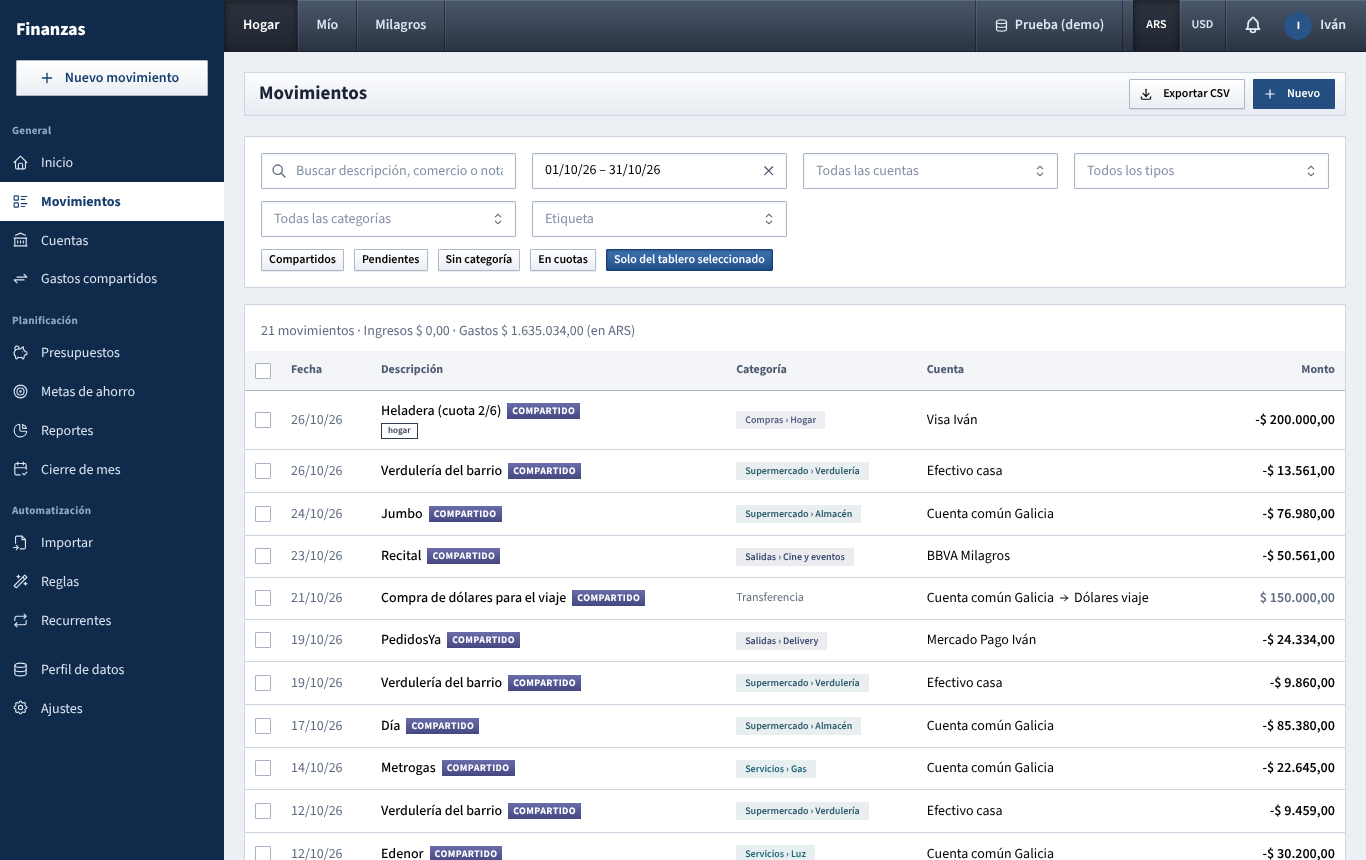
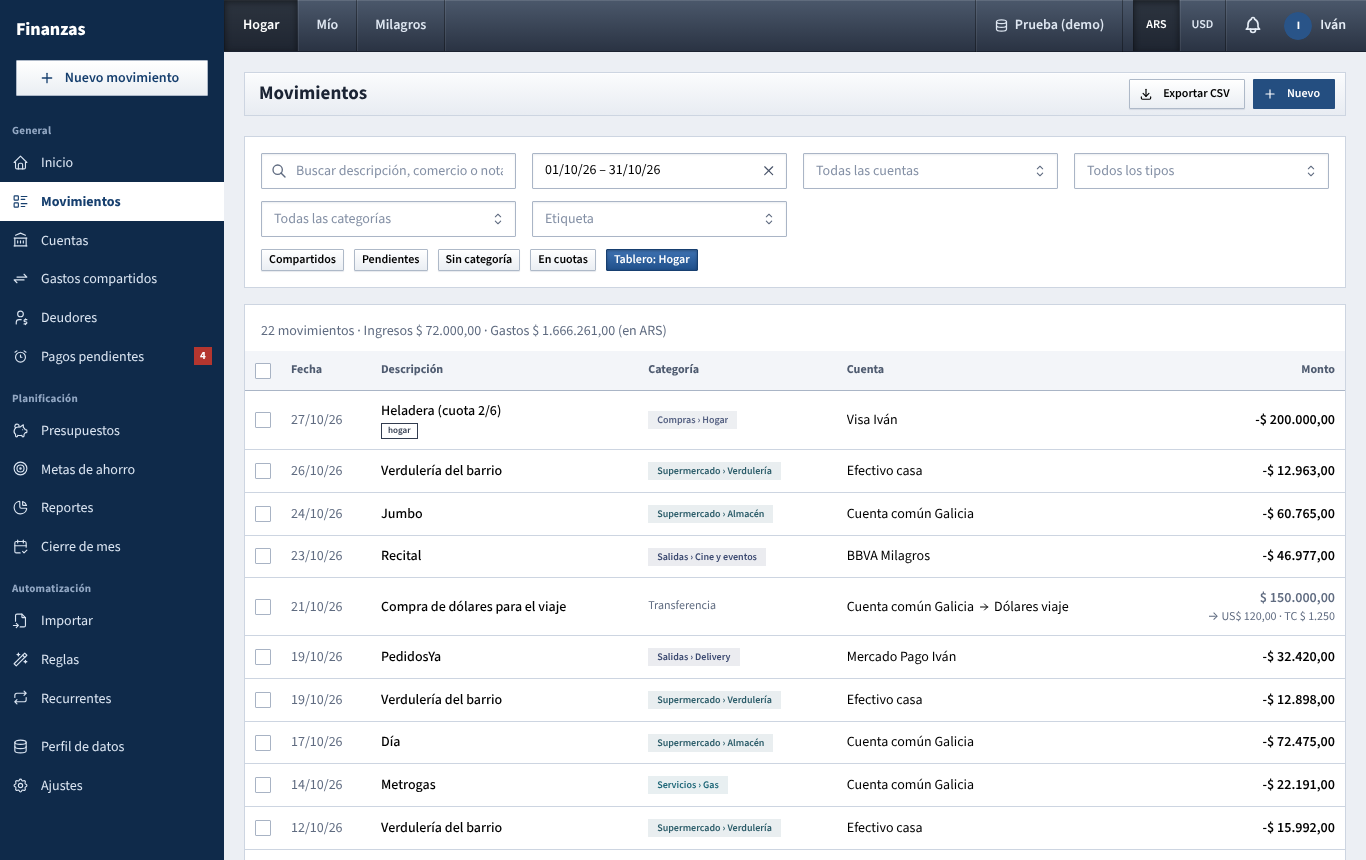
Finish the help wiki, add the Pagos pendientes article, retake guide screenshots
Version 0.8.1.

Claude-Session: https://claude.ai/code/session_01F1uWcjjYehQ8cfSNhhf7tA

diff --git a/web/public/patch-notes.html b/web/public/patch-notes.html
@@ -49,12 +49,13 @@
 <a name="top"></a>
 <div class="page">
   <div class="banner"><h1>FINANZAS</h1> &nbsp;<small>:: patch notes ::</small></div>
-  <div class="menubar"><a href="/">&laquo; Back to Finanzas</a> &nbsp;|&nbsp; Latest version: <b>0.8.0</b></div>
+  <div class="menubar"><a href="/">&laquo; Back to Finanzas</a> &nbsp;|&nbsp; Latest version: <b>0.8.1</b></div>
 
   <table class="layout">
     <tr>
       <td class="side">
         <h2>Index</h2>
+        <a class="idx" href="#v0.8.1"><b>0.8.1</b><span class="date">Oct 27, 2026</span></a>
         <a class="idx" href="#v0.8.0"><b>0.8.0</b><span class="date">Oct 27, 2026</span></a>
         <a class="idx" href="#v0.7.0"><b>0.7.0</b><span class="date">Oct 27, 2026</span></a>
         <a class="idx" href="#v0.6.1"><b>0.6.1</b><span class="date">Oct 27, 2026</span></a>
@@ -74,6 +75,15 @@
 
       <td class="main">
         <p class="lead">What changed in each version</p>
+
+        <a name="v0.8.1"></a>
+        <h2>0.8.1 <span class="date">&middot; Oct 27, 2026</span></h2>
+        <ul>
+          <li>Help wiki finished: sidebar by section, search (Ctrl K), light and dark mode, previous and next article, phone layout.</li>
+          <li>New help articles: Pagos pendientes and Set up email notifications.</li>
+          <li>Every screenshot in the help was retaken from the current version.</li>
+        </ul>
+        <p class="top"><a href="#top">&uarr; Back to top</a></p>
 
         <a name="v0.8.0"></a>
         <h2>0.8.0 <span class="date">&middot; Oct 27, 2026</span></h2>

diff --git a/README.md b/README.md
@@ -58,7 +58,7 @@ npm run demo:reset   # rebuilds and reloads the demo data
 
 `npm run update` is the same as `git checkout -- package-lock.json && git pull --ff-only && npm ci`. Use `npm ci` rather than `npm install` to install: it never rewrites `package-lock.json`, so the next `git pull` can't be blocked by it.
 
-The footer shows the version you're running (`Finanzas v0.8.0 · …`); it's bumped in the root `package.json` with every change, and each version is described in the **Patch notes** page linked from the footer (`web/public/patch-notes.html`).
+The footer shows the version you're running (`Finanzas v0.8.1 · …`); it's bumped in the root `package.json` with every change, and each version is described in the **Patch notes** page linked from the footer (`web/public/patch-notes.html`).
 
 ### Development
 

diff --git a/docs/guide/README.md b/docs/guide/README.md
@@ -23,6 +23,7 @@ The order follows the sidebar.
 | [Cuentas](cuentas.md) | Accounts and their balances, joint or personal, in ARS or USD. |
 | [Gastos compartidos](gastos-compartidos.md) | Who owes whom from shared expenses and shared income, and settling up. |
 | [Deudores](deudores.md) | Money and things you lent to other people: what's still out, partial returns, reminders. |
+| [Pagos pendientes](pagos-pendientes.md) | What you have to do yourself each month (savings, paying someone back) and loans to collect; it chases you until it's done. |
 | **Planificación** | |
 | [Presupuestos](presupuestos.md) | Monthly limits per category, alerts at 80% and 100%, and indexing by inflation. |
 | [Metas de ahorro](metas.md) | Savings goals and how much to put aside each month. |
